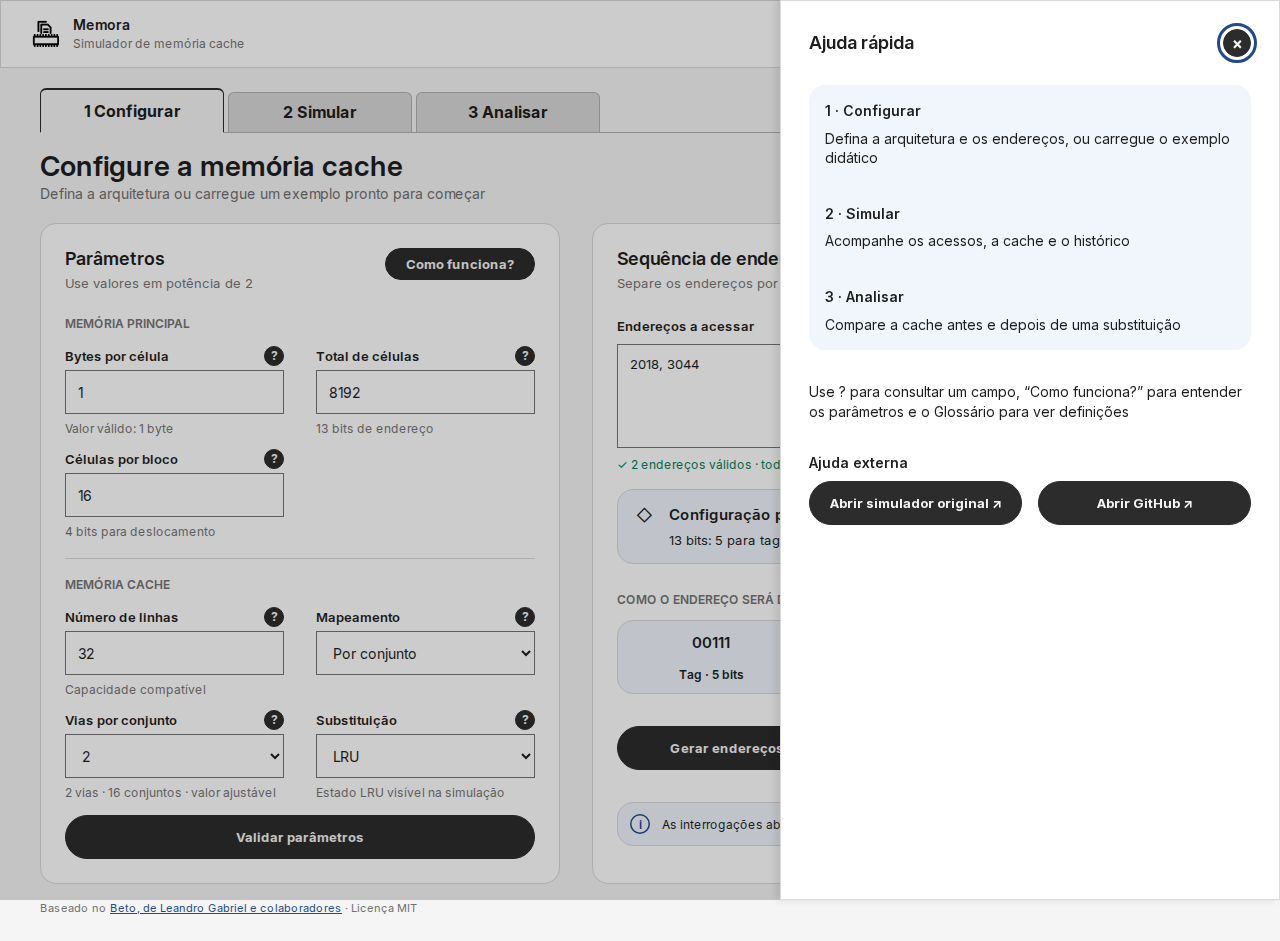
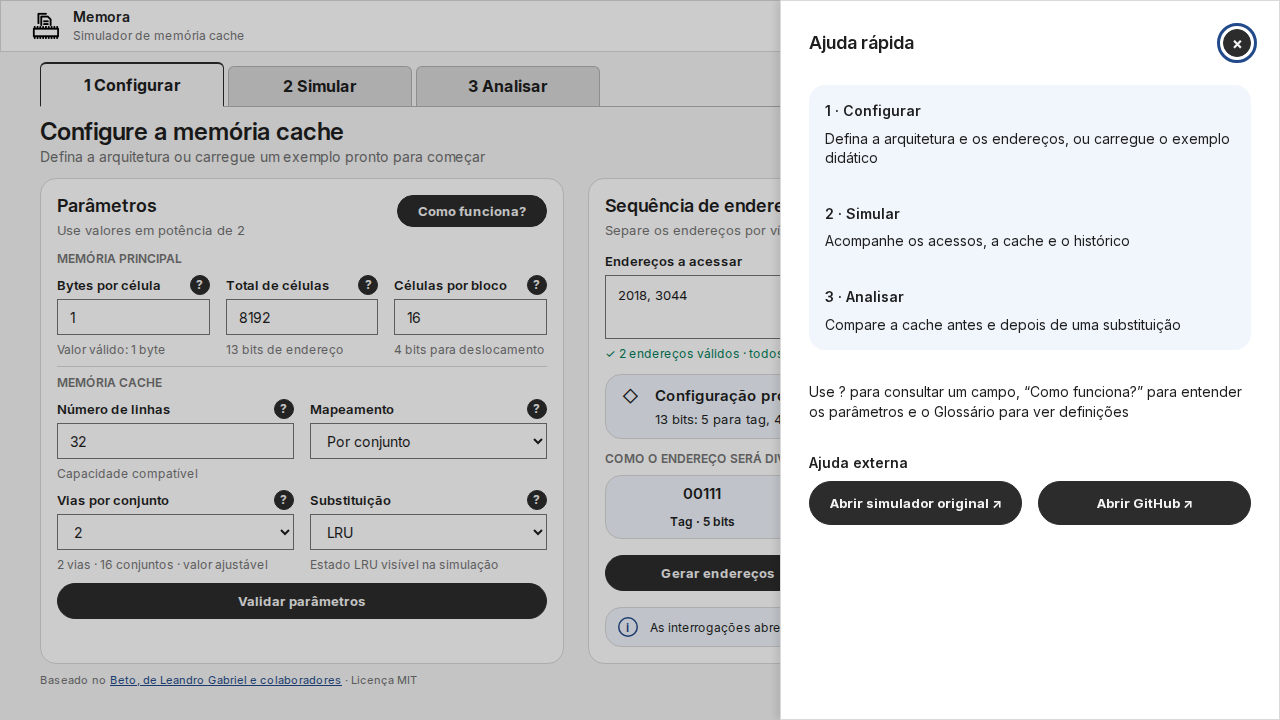
fix(ui): ajusta Tela 1 à altura útil do desktop
Refs #35, #37

diff --git a/packages/memora/src/styles/base.css b/packages/memora/src/styles/base.css
@@ -102,7 +102,7 @@ h1 { font-size: 28px; font-weight: 600; line-height: 34px; }
 .intro p { font-size: 14px; line-height: 18px; margin-top: 2px; color: var(--memora-text-on-page-secondary); }
 .intro button { min-width: 248px; }
 .configuration-grid { display: grid; grid-template-columns: minmax(0, 520fr) minmax(0, 648fr); gap: 32px; align-items: stretch; }
-.panel { min-width: 0; min-height: 640px; padding: 24px; background: white; border: 1px solid var(--sds-color-border-default-default); border-radius: var(--sds-size-radius-400); }
+.panel { min-width: 0; min-height: 0; padding: 24px; background: white; border: 1px solid var(--sds-color-border-default-default); border-radius: var(--sds-size-radius-400); }
 .panel-heading { display: flex; justify-content: space-between; align-items: start; gap: 12px; min-height: 44px; }
 h2 { font-size: 18px; line-height: 22px; font-weight: 600; }
 .panel-heading p { font-size: 13px; line-height: 18px; margin-top: 4px; color: var(--sds-color-text-default-secondary); }
@@ -143,7 +143,7 @@ label { font-size: 13px; font-weight: 600; line-height: 18px; }
 .information-note p { font-size: 12px; line-height: 17px; }
 .ring-symbol { flex-shrink: 0; width: 20px; height: 20px; display: inline-grid; place-items: center; position: relative; color: var(--memora-current-set-accent); font-size: 12px; font-weight: 600; }
 .ring-symbol img { position: absolute; inset: 0; }
-.error-summary { padding: 12px 16px; margin: 0 0 20px; border: 1px solid #f4b3b3; border-radius: 16px; background: var(--memora-error-background); color: var(--memora-error); font-size: 13px; line-height: 18px; }
+.error-summary { margin-top: 2px; color: var(--memora-error); font-size: 13px; line-height: 18px; }
 .attribution { font-size: 11px; line-height: 17px; margin-top: 16px; color: var(--memora-text-on-page-secondary); }
 .side-sheet { position: fixed; inset: 0; margin: 0 0 0 auto; padding: 28px; width: min(430px, 100%); max-width: 100%; height: 100dvh; max-height: 100dvh; border: 1px solid var(--sds-color-border-default-default); border-radius: 0; color: var(--sds-color-text-default-default); background: white; box-shadow: -4px 0 8px #0000001a; overflow: hidden; }
 .side-sheet.wide { width: min(500px, 100%); }
@@ -193,7 +193,7 @@ label { font-size: 13px; font-weight: 600; line-height: 18px; }
   main { padding: 16px; }
   .topbar { padding: 12px 16px; }
   .global-actions { width: 100%; }
-  .global-actions button, .global-actions .button { flex: 1; min-width: 0; padding-inline: 10px; }
+  .global-actions button { flex: 1; min-width: 0; padding-inline: 10px; }
   .stage-tab { flex: 1; min-width: 0; width: auto; padding-inline: 4px; font-size: 13px; }
   h1 { font-size: 24px; line-height: 30px; }
   .intro button { width: 100%; }
@@ -204,4 +204,71 @@ label { font-size: 13px; font-weight: 600; line-height: 18px; }
   .information-card span { font-size: 11px; }
   .sequence-actions { grid-template-columns: 1fr; gap: 12px; }
   .side-sheet { padding: 24px 20px; }
+}
+
+/* Configurar: os três campos de memória ocupam uma linha no desktop */
+@media (min-width: 801px) {
+  .topbar { min-height: 52px; padding-block: 6px; }
+  main { padding-top: 10px; padding-bottom: 12px; }
+  .stage-tabs { margin-bottom: 10px; }
+  .intro { margin-bottom: 12px; }
+  h1 { font-size: 24px; line-height: 29px; }
+  .intro button { min-height: 36px; padding-block: 8px; }
+  .memory-group .fields-grid { grid-template-columns: repeat(3, minmax(0, 1fr)); column-gap: 16px; }
+  .panel { padding: 16px; }
+  .parameter-group { margin-top: 16px; }
+  .fields-grid { column-gap: 16px; row-gap: 10px; margin-top: 10px; }
+  .cache-group { margin-top: 12px; padding-top: 12px; }
+  .cache-group legend { margin-bottom: 10px; }
+  .full-width { margin-top: 10px; }
+  .sequence-field { margin-top: 12px; }
+  .sequence-field .field-heading { margin-bottom: 4px; }
+  .sequence-field .field-feedback { margin-top: 6px; }
+  .configuration-summary { margin-top: 12px; padding: 10px 16px; min-height: 60px; }
+  .configuration-summary p { margin-top: 4px; }
+  .decomposition { margin-top: 20px; }
+  .decomposition-grid { margin-top: 8px; }
+  .information-card { min-height: 64px; padding-block: 8px; gap: 8px; }
+  .sequence-actions { margin-top: 20px; }
+  .sequence-actions + .information-note { margin-top: 16px; }
+  .information-note { min-height: 40px; padding-block: 8px; }
+  .attribution { margin-top: 8px; }
+  textarea { min-height: 72px; height: 72px; max-height: 120px; }
+}
+
+/* Altura útil de notebooks e de desktops com escala do Windows em 125% */
+@media (min-width: 801px) and (max-height: 800px) {
+  .configuration-grid { gap: 24px; }
+  #configure-form input, #configure-form select { height: 36px; padding-block: 7px; }
+  #validate-parameters, .sequence-actions button { min-height: 36px; padding-block: 8px; }
+  .parameter-group { margin-top: 12px; }
+  .fields-grid { row-gap: 8px; margin-top: 8px; }
+  .cache-group { margin-top: 8px; padding-top: 8px; }
+  .cache-group legend { margin-bottom: 8px; }
+  .decomposition { margin-top: 12px; }
+  .sequence-actions { margin-top: 16px; }
+  #sequence { min-height: 64px; height: 64px; max-height: 96px; }
+}
+
+/* Reserva espaço para validações sem reduzir o tamanho dos textos */
+@media (min-width: 801px) {
+  .has-errors .parameter-group { margin-top: 8px; }
+  .has-errors .memory-group .fields-grid { margin-top: 4px; }
+  .has-errors .cache-group { margin-top: 4px; padding-top: 4px; }
+  .has-errors .cache-group legend { margin-bottom: 4px; }
+  .has-errors .fields-grid { row-gap: 4px; }
+  .has-errors .full-width { margin-top: 6px; }
+  .has-errors .panel { padding: 12px; }
+  .has-errors .field-heading { margin-bottom: 2px; }
+  .has-errors .sequence-field { margin-top: 4px; }
+  .has-errors .field-feedback li + li { margin-top: 0; }
+  .has-errors #sequence { min-height: 44px; height: 44px; }
+  .has-errors .sequence-field .field-feedback { margin-top: 4px; }
+  .has-errors .configuration-summary { margin-top: 4px; padding-block: 6px; }
+  .has-errors .decomposition, .has-errors .decomposition-grid { margin-top: 4px; }
+  .has-errors .information-card { min-height: 56px; gap: 4px; }
+  .has-errors .sequence-actions { margin-top: 8px; }
+  .has-errors .sequence-actions + .information-note { margin-top: 4px; }
+  /* Mensagens extensas rolam junto ao campo, mantendo as ações na área visível */
+  .sequence-field .error-text { max-height: 102px; overflow: auto; }
 }

diff --git a/packages/memora/browser/configure.spec.js b/packages/memora/browser/configure.spec.js
@@ -196,6 +196,52 @@ test('fechar pelo botão e pelo scrim preserva dados e foco', async ({ page }) =
   await expect(opener).toBeFocused(); await expect(page.locator('#ways')).toHaveValue('2');
 });
 
+test('GitHub fica na Ajuda rápida, sem ação duplicada no cabeçalho', async ({ page }) => {
+  await expect(page.locator('.global-actions').getByRole('link', { name: /GitHub/ })).toHaveCount(0);
+  await expect(page.locator('.global-actions button')).toHaveCount(2);
+  await page.locator('[data-help="quick"]').click();
+  await expect(page.getByRole('dialog').getByRole('link', { name: /Abrir GitHub/ })).toBeVisible();
+});
+
+for (const viewport of [{ width: 1280, height: 720 }, { width: 1366, height: 768 }, { width: 1480, height: 742 }, { width: 1536, height: 864 }]) {
+  test(`Tela 1 inteira sem rolagem em ${viewport.width} × ${viewport.height}`, async ({ page }) => {
+    await page.setViewportSize(viewport);
+    async function fits() {
+      const geometry = await page.evaluate(() => {
+        const controls = [...document.querySelectorAll('.topbar, .stage-tabs, .intro, .panel, .attribution, #configure-form input, #configure-form select, #configure-form textarea, #configure-form button')];
+        return {
+          height: document.documentElement.scrollHeight, width: document.documentElement.scrollWidth,
+          overflow: getComputedStyle(document.body).overflow,
+          outside: controls.filter(n => { const r = n.getBoundingClientRect(); return r.top < 0 || r.bottom > innerHeight + 1 || r.left < 0 || r.right > innerWidth + 1; }).map(n => n.id || n.className),
+        };
+      });
+      expect(geometry.height).toBeLessThanOrEqual(viewport.height);
+      expect(geometry.width).toBeLessThanOrEqual(viewport.width);
+      expect(geometry.overflow).not.toBe('hidden');
+      expect(geometry.outside).toEqual([]);
+    }
+    await fits();
+    await page.locator('#load-example').click();
+    for (const mapping of ['set-associative', 'direct', 'fully-associative']) {
+      await page.locator('#mapping').selectOption(mapping); await fits();
+    }
+    await page.locator('#mapping').selectOption('set-associative');
+    await page.locator('#ways').selectOption('4'); await page.locator('#cacheLines').fill('2');
+    await page.locator('#memoryCells').fill('100'); await page.locator('#sequence').fill('-1, 4096, abc, 20');
+    await fits();
+    for (const id of ['bytesPerCell', 'memoryCells', 'cellsPerBlock', 'cacheLines']) await page.locator(`#${id}`).fill('');
+    await page.locator('#sequence').fill('-1, abc, -2, def, -3, xyz');
+    await fits();
+    await page.locator('#sequence').fill('x'.repeat(2000));
+    await fits();
+    if (viewport.height <= 800) {
+      await page.locator('#sequence-feedback').focus(); await page.keyboard.press('PageDown');
+      await expect.poll(() => page.locator('#sequence-feedback').evaluate(node => node.scrollTop)).toBeGreaterThan(0);
+      expect(await page.evaluate(() => scrollY)).toBe(0);
+    }
+  });
+}
+
 test('zero bits e entradas sem inteiros válidos não geram dados fictícios', async ({ page }) => {
   await page.locator('#mapping').selectOption('direct');
   for (const id of ['memoryCells', 'cacheLines', 'cellsPerBlock']) await page.locator(`#${id}`).fill('1');

diff --git a/packages/memora/index.html b/packages/memora/index.html
@@ -18,7 +18,6 @@
       <nav class="global-actions" aria-label="Ajuda e referências">
         <button type="button" data-help="glossary">Glossário</button>
         <button type="button" data-help="quick">Ajuda rápida</button>
-        <a class="button" href="https://github.com/LuizJr2001/memora-cache-simulator-tcc" target="_blank" rel="noopener noreferrer">GitHub<span class="sr-only"> — abre em nova aba</span></a>
       </nav>
     </header>
     <main id="configurar" tabindex="-1">
@@ -28,17 +27,16 @@
         <li class="stage-tab" aria-disabled="true" title="Etapa ainda indisponível">3 Analisar</li>
       </ol>
       <div class="intro">
-        <div><h1>Configure a memória cache</h1><p>Defina a arquitetura ou carregue um exemplo pronto para começar</p></div>
+        <div><h1>Configure a memória cache</h1><p id="intro-description">Defina a arquitetura ou carregue um exemplo pronto para começar</p><div id="error-summary" class="error-summary" role="status" aria-live="polite" hidden></div></div>
         <button type="button" id="load-example">Carregar exemplo didático</button>
       </div>
-      <div id="error-summary" class="error-summary" role="status" aria-live="polite" hidden></div>
       <form id="configure-form" class="configuration-grid" novalidate>
         <section class="panel parameters-panel" aria-labelledby="parameters-heading">
           <div class="panel-heading">
             <div><h2 id="parameters-heading">Parâmetros</h2><p>Use valores em potência de 2</p></div>
             <button class="compact" type="button" data-help="how">Como funciona?</button>
           </div>
-          <fieldset class="parameter-group">
+          <fieldset class="parameter-group memory-group">
             <legend>MEMÓRIA PRINCIPAL</legend>
             <div class="fields-grid">
               <div class="field">

diff --git a/packages/memora/src/ui/configure-screen.js b/packages/memora/src/ui/configure-screen.js
@@ -81,6 +81,9 @@ export function mountConfigureScreen(document, { random = Math.random, onPrepare
     const errorCount = Object.keys(errors).length + (showSequenceErrors ? addresses.errors.length : 0);
     const errorSummary = byId('error-summary');
     errorSummary.hidden = errorCount === 0;
+    byId('intro-description').hidden = errorCount > 0;
+    form.classList.toggle('has-errors', errorCount > 0);
+    sequenceFeedback.tabIndex = showSequenceErrors ? 0 : -1;
     errorSummary.textContent = errorCount ? `⚠ ${errorCount} ${errorCount === 1 ? 'erro impede' : 'erros impedem'} a simulação — revise os campos indicados` : '';
     const validate = byId('validate-parameters');
     validate.disabled = !parameters.ok;

diff --git a/packages/memora/playwright.config.js b/packages/memora/playwright.config.js
@@ -8,7 +8,7 @@ export default defineConfig({
   reporter: 'list',
   use: {
     baseURL: 'http://127.0.0.1:5173',
-    viewport: { width: 1280, height: 900 },
+    viewport: { width: 1280, height: 720 },
     headless: true,
     launchOptions: process.env.MEMORA_CHROMIUM_PATH ? { executablePath: process.env.MEMORA_CHROMIUM_PATH } : {},
   },

diff --git a/packages/memora/docs/verificacao-tela-1.md b/packages/memora/docs/verificacao-tela-1.md
@@ -27,8 +27,18 @@ Tela 1, e editar dados invalida a entrada preparada. As etapas Simular e Analisa
 aparecem sem navegação ativa. Esta entrega não executa cache ou políticas.
 
 Adaptações para funcionamento: sequência inicialmente vazia; diálogo de geração
-com quantidade; altura fluida para mensagens; resumo de erros abaixo do cabeçalho
-para preservar o acesso ao exemplo didático; painéis empilhados em telas menores.
+com quantidade; resumo de erros sob o título, substituindo a descrição enquanto
+houver erros; painéis empilhados em telas menores.
+
+Na revisão de 12/10, os três campos de memória principal passaram a ocupar uma
+linha, o cabeçalho ficou com 52 px e foram reduzidos os intervalos entre os grupos.
+A Tela 1, suas variantes SDS e as telas de fundo das ajudas no Figma usam
+1280 × 720. Os 40 cabeçalhos da v2 oferecem apenas Glossário e Ajuda rápida;
+Abrir GitHub permanece na ajuda. A V1.2 foi preservada.
+
+O código adapta os intervalos à altura disponível. Validações usam espaço mais
+compacto sem reduzir a fonte. Mensagens extensas da sequência têm rolagem local
+com foco e PageDown, preservando o texto completo e as ações visíveis.
 
 ## Resultados
 
@@ -39,7 +49,7 @@ Ambiente: Node.js 24.19.0, Playwright 1.64.0 e Chromium 153.0.8010.0, Linux.
 | `npm ci` | Instalação pelo lockfile concluída |
 | `npm run check` | 16 arquivos JavaScript com sintaxe válida |
 | `npm test` | 37 testes passaram: 28 existentes + 9 do controlador |
-| `npm run test:ui --workspace @memora/simulator` | 13 cenários passaram no Chromium |
+| `npm run test:ui --workspace @memora/simulator` | 18 cenários passaram no Chromium |
 | `git diff --check` | Sem problemas de whitespace |
 | Diff dos três arquivos do Beto e de `src/core` | Sem alterações |
 
@@ -47,8 +57,13 @@ Os cenários de navegador cobrem exemplo, três mapeamentos, alteração das via
 troca de política, geração após editar memória, mensagens e bloqueio, preparação,
 zero bits, entradas coladas acima dos limites, conteúdo seguro, operação por
 teclado, as 11 ajudas, contenção/restauração de foco e fechamento por Escape,
-botão e scrim. Foram verificados layouts de 1280, 768, 390 e 320 px, sem scroll
-horizontal ou sobreposição entre os painéis. Inter local, peso 700 em ações/abas,
+botão e scrim. A página inteira foi verificada sem rolagem em 1280 × 720,
+1366 × 768, 1480 × 742 e 1536 × 864: estado inicial, exemplo, três mapeamentos,
+erros simultâneos, quatro parâmetros vazios e mensagens extensas. Os testes
+medem os limites dos controles e a altura real do documento, sem ocultar o
+overflow da página. O link GitHub foi conferido apenas na Ajuda rápida.
+Foram verificados layouts de 768, 390 e 320 px, sem scroll horizontal ou
+sobreposição entre os painéis. Inter local, peso 700 em ações/abas,
 cantos retos dos campos e assets carregados também têm verificação no navegador.
 
 Os assets locais correspondem aos slots do Figma: marca de 30 × 30 px e aros

diff --git a/docs/prototipo-v2-especificacao.md b/docs/prototipo-v2-especificacao.md
@@ -27,6 +27,26 @@ O controle de ritmo da Tela 2 usa o rótulo **Velocidade**, junto à barra de aj
 
 Decimal/Binário altera apenas a apresentação de endereços, tags e blocos. A escolha deve ser preservada ao trocar de tela. A cache usa scroll local; o antigo botão Ver cache completa permanece removido.
 
+### Tela 1 inteira no desktop — revisão em 12/10/2026
+
+A referência principal de Configurar, suas variantes SDS e as telas de fundo
+das ajudas usam **1280 × 720**, com cabeçalho de 52 px. Bytes por célula,
+Total de células e Células por bloco ocupam uma linha; cache e sequência
+permanecem em painéis lado a lado. Os intervalos foram reduzidos, preservando
+Inter, os tamanhos legíveis, os tokens e a aparência das abas. Nos casos
+inválidos, o resumo de erros fica sob o título, com o exemplo didático acessível.
+
+Os **40 cabeçalhos da v2** contêm apenas Glossário e Ajuda rápida. O botão
+GitHub foi removido por duplicar Abrir GitHub, que permanece na Ajuda rápida.
+A V1.2 mantém sua organização histórica.
+
+A implementação no [PR #43](https://github.com/LuizJr2001/memora-cache-simulator-tcc/pull/43)
+adapta o espaço à altura disponível. Em 1280 × 720, 1366 × 768, 1480 × 742
+e 1536 × 864, os controles permanecem dentro da área visível nos três
+mapeamentos e com erros simultâneos. Mensagens extensas da sequência podem
+ser percorridas localmente por teclado. Em telas menores, os painéis são
+empilhados para preservar a leitura.
+
 ## Sistema visual e componentes
 
 O projeto mantém o **Simple Design System (SDS)** e a família **Inter**. As adaptações locais são registradas na [decisão 002](decisoes/002-simple-design-system.md). Forma, cor, texto e símbolos trabalham juntos para distinguir ação, preenchimento, informação e estado.
@@ -186,6 +206,7 @@ As associações registram decisões do redesign. A inspeção formal com severi
 | 09/10 | Abas, identidade dos controles, microcopy e simplificação dos side sheets | #37 |
 | 11/10 | Espaçamento da Ajuda rápida, Inter/Bold, rótulo Velocidade, revisão dos textos de ajuda e sincronização documental | #37 e revisão desta especificação |
 | 12/10 | Azul informativo compartilhado com os side sheets e indicadores de consulta com a mesma identidade; pesquisa e proposta de cor para FALTA | #37 e decisão 002 |
+| 12/10 | Configurar em 1280 × 720; memória principal em uma linha; GitHub apenas na Ajuda rápida; conferência no Figma e no código | #35, #37 e PR #43 |
 
 ## Implementação e avaliação
 

diff --git a/packages/memora/README.md b/packages/memora/README.md
@@ -43,9 +43,12 @@ npx playwright install chromium
 npm run test:ui --workspace @memora/simulator
 ```
 
-São 13 cenários de navegador: campos condicionais, exemplo, erros/bloqueio,
+São 18 cenários de navegador: campos condicionais, exemplo, erros/bloqueio,
 geração após editar parâmetros, preparação da entrada, 11 ajudas, teclado,
-foco, fluxo por teclado, limites de entrada, zero bits e layouts de 768, 390 e 320 px. O servidor é iniciado pelos testes.
+foco, fluxo por teclado, limites de entrada, zero bits, GitHub apenas na Ajuda rápida
+e layouts de 768, 390 e 320 px. Quatro cenários conferem a página inteira sem
+rolagem em 1280 × 720, 1366 × 768, 1480 × 742 e 1536 × 864, inclusive com vários
+erros e campos vazios. O servidor é iniciado pelos testes.
 `MEMORA_CHROMIUM_PATH` permite usar um Chromium já instalado, e
 `MEMORA_SCREENSHOT_DIR` define onde guardar as capturas opcionais.
 
@@ -88,6 +91,11 @@ A [Tela 1](https://www.figma.com/design/Zm8dzyoG0yhkbEkC01Zvu0?node-id=311-14),
 suas variantes e os textos visíveis das ajudas na página v2 guiam esta entrega.
 Os componentes React de Code Connect foram adaptados para HTML/CSS nativos,
 mantendo a stack e os tokens SDS. Os exemplos das ajudas são estáticos.
+No desktop, os três campos de memória principal ocupam uma linha. Cabeçalho,
+painéis e intervalos usam um arranjo compacto para caber na altura útil de notebooks
+e desktops com escala do Windows. Mensagens extensas da sequência têm rolagem
+local acessível por teclado; o cabeçalho oferece Glossário e Ajuda rápida,
+com Abrir GitHub dentro desta última. Em telas menores, os painéis são empilhados.
 A avaliação #33 permanece em paralelo.
 
 ## Origem

diff --git a/docs/decisoes/002-simple-design-system.md b/docs/decisoes/002-simple-design-system.md
@@ -42,10 +42,27 @@ A adoção vale para as três etapas principais:
 
 - cabeçalho branco;
 - marca Memora à esquerda;
-- ações globais à direita;
+- Glossário e Ajuda rápida à direita; Abrir GitHub disponível dentro da Ajuda rápida;
 - navegação por abas Configurar, Simular e Analisar, com aparência de navegador;
 - aba atual elevada, destacada e conectada ao conteúdo; as demais são destinos reconhecíveis;
 - componente `Memora/Navegação/Abas`, com três variantes, baseado em Tab do SDS.
+
+### Configurar sem rolagem no desktop — revisão em 12/10/2026
+
+A Tela 1 e suas representações SDS na v2 passam de 1280 × 900 para
+1280 × 720. O cabeçalho tem 52 px, os três campos de memória principal ficam
+lado a lado e os painéis usam intervalos menores. As abas mantêm sua forma,
+pesos e destaque da etapa atual. O resumo de erros fica junto ao título.
+
+A implementação adapta o espaço à altura disponível, com controles de 36 px
+em desktops de até 800 px de altura útil e textos em seus tamanhos legíveis.
+Os estados de validação reservam espaço para mensagens próximas dos campos.
+Textos extensos da sequência usam rolagem local por teclado. Telas menores
+mantêm painéis empilhados e fluxo vertical.
+
+O botão GitHub foi retirado dos 40 cabeçalhos da v2, porque repete o link
+Abrir GitHub da Ajuda rápida. A organização dos links na ajuda foi preservada.
+A revisão do Figma e a implementação são rastreáveis no PR #43 e nas #35/#37.
 
 ### Controles
 
